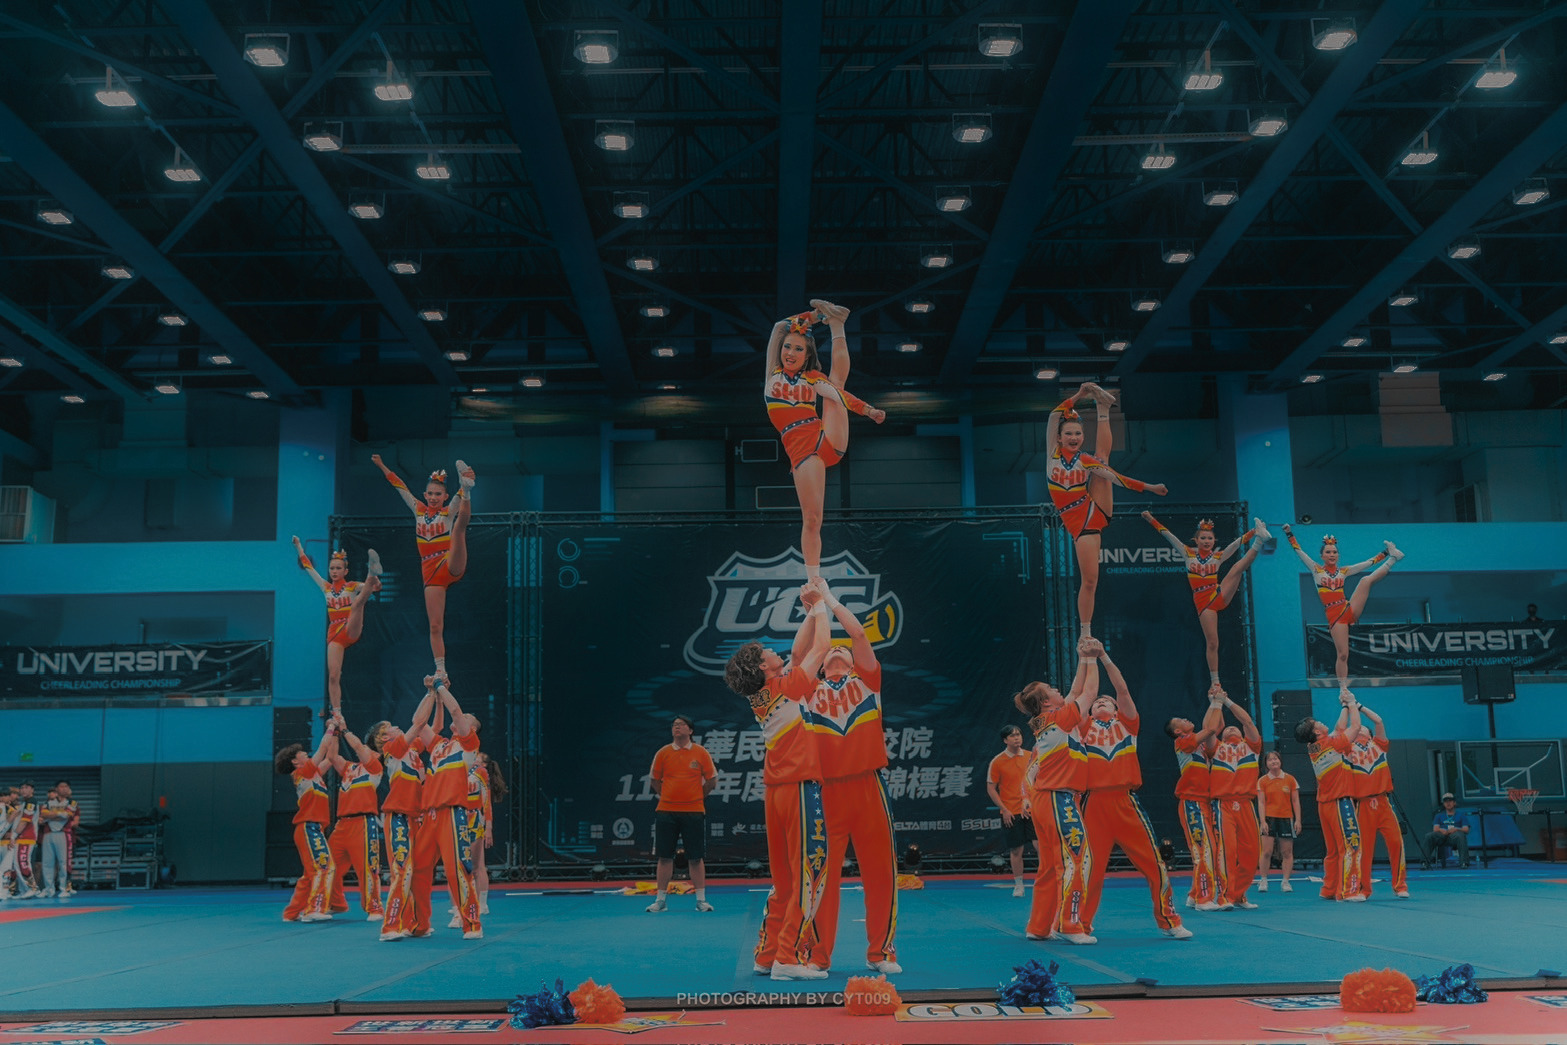
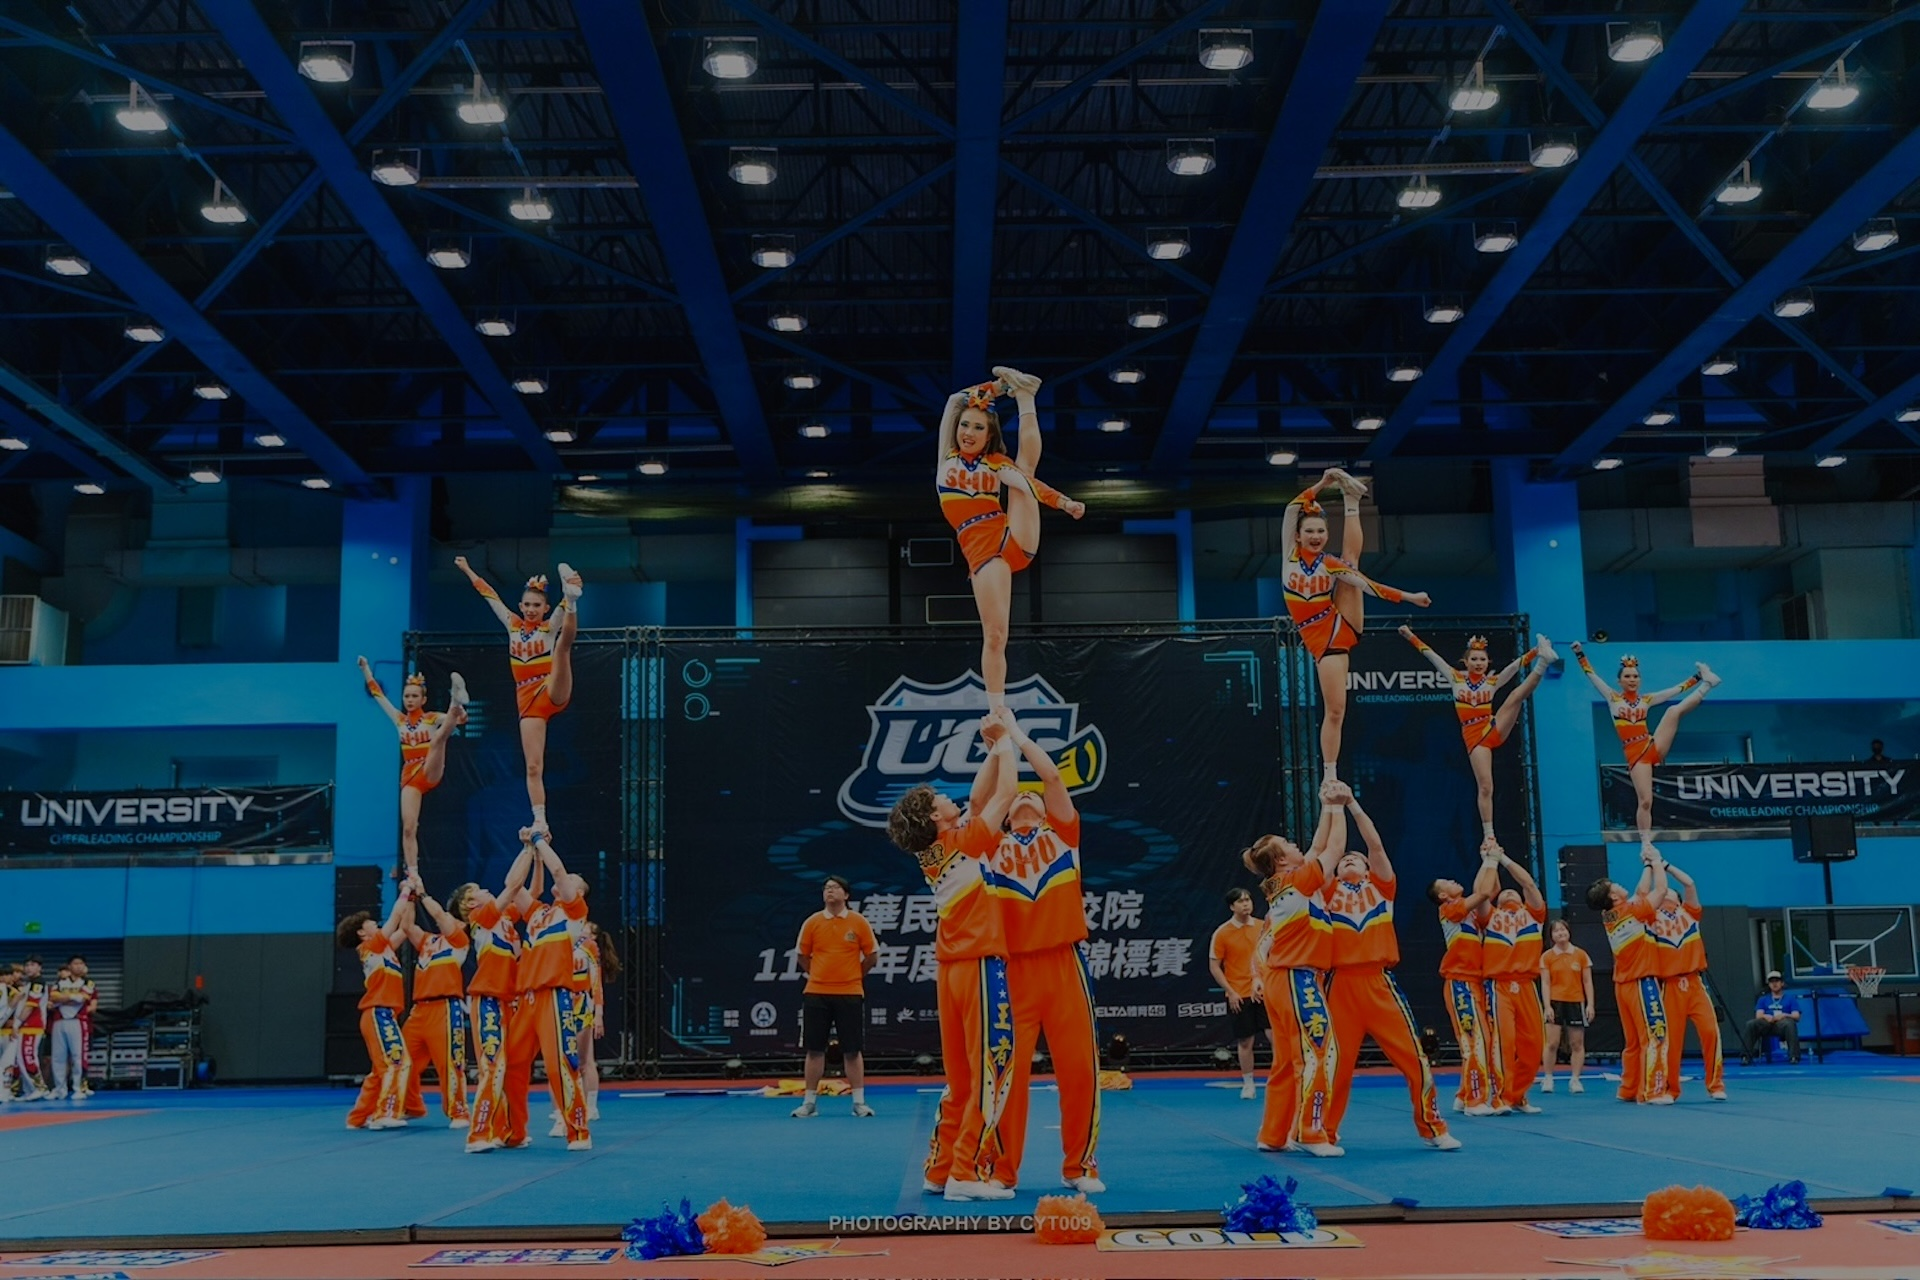
改圖片大小及加新檔案

diff --git a/newbt5.html b/newbt5.html
@@ -1,0 +1,15 @@
+<!DOCTYPE html>
+<html lang="zh_TW">
+<head>
+    <meta charset="UTF-8">
+    <meta name="viewport" content="width=device-width, initial-scale=1.0">
+    <title>a111070001 bootstrap測試</title>
+    <!-- CSS only -->
+<link href="https://cdn.jsdelivr.net/npm/bootstrap@5.1.1/dist/css/bootstrap.min.css" rel="stylesheet" integrity="sha384-F3w7mX95PdgyTmZZMECAngseQB83DfGTowi0iMjiWaeVhAn4FJkqJByhZMI3AhiU" crossorigin="anonymous">
+<!-- JavaScript Bundle with Popper -->
+<script src="https://cdn.jsdelivr.net/npm/bootstrap@5.1.1/dist/js/bootstrap.bundle.min.js" integrity="sha384-/bQdsTh/da6pkI1MST/rWKFNjaCP5gBSY4sEBT38Q/9RBh9AH40zEOg7Hlq2THRZ" crossorigin="anonymous"></script>
+</head>
+<body>
+    
+</body>
+</html>

diff --git a/css/mystyles.css b/css/mystyles.css
@@ -13,6 +13,7 @@ section#about {
     background-image: url(../assets/img/bg.jpg);
     background-position: center;
     background-attachment: fixed;
+    background-size: cover;
     }
 section#cta {
     background-color:#055160 ;
